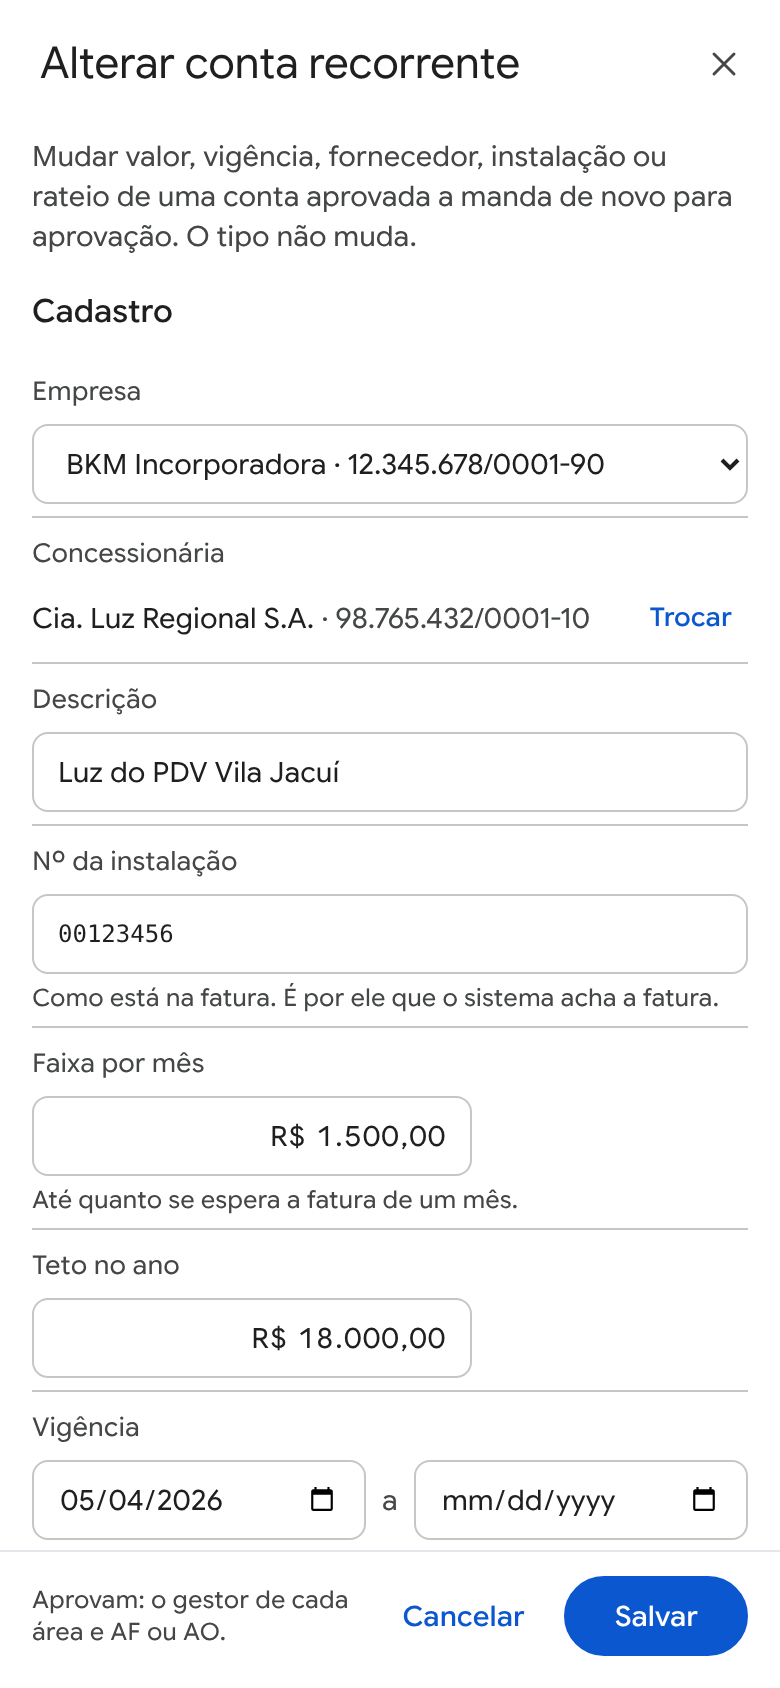
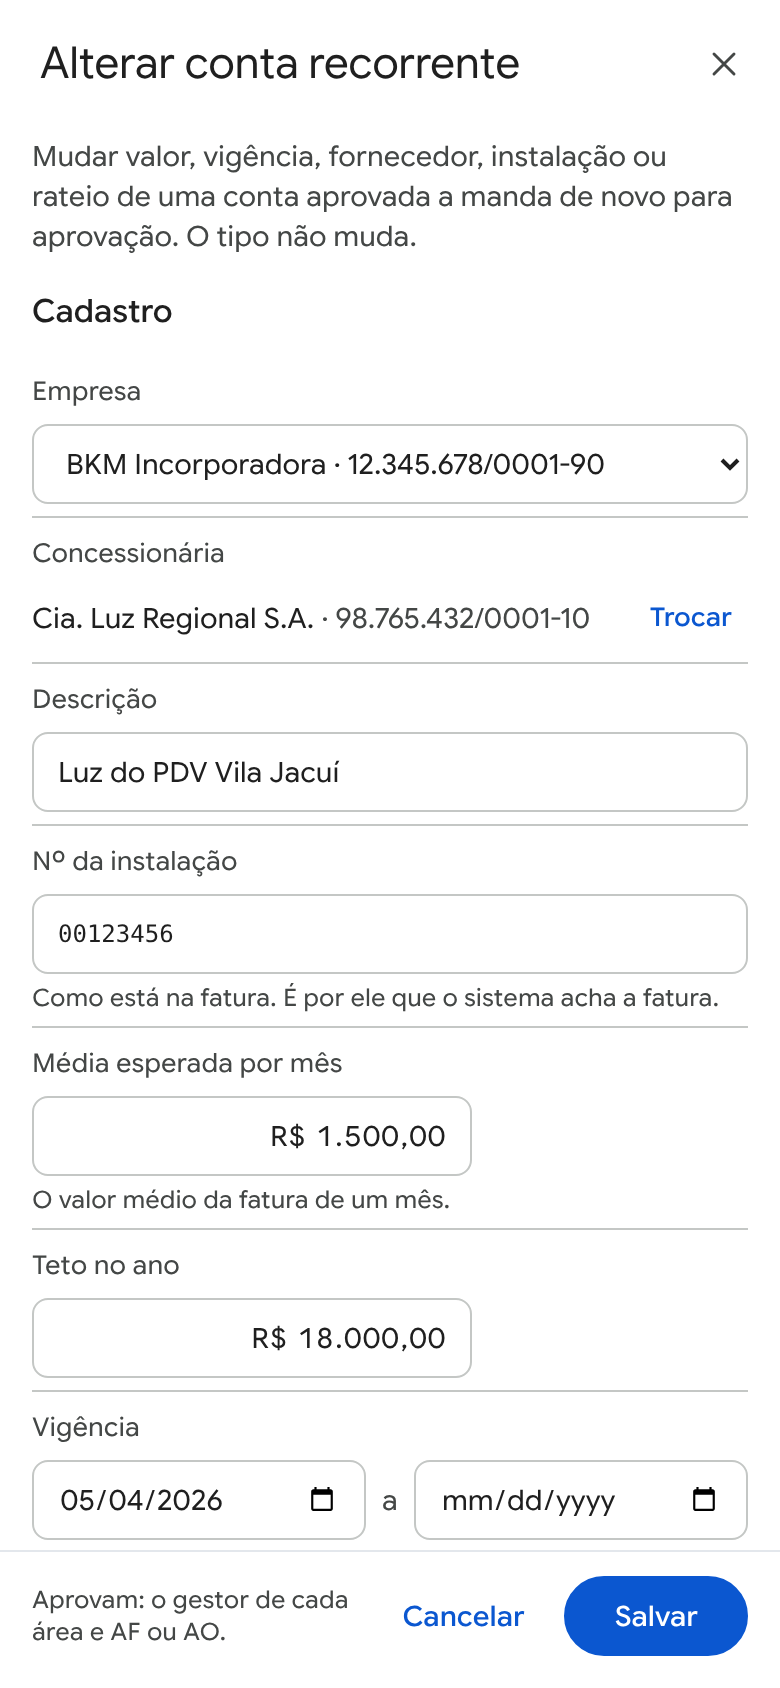
Conta de consumo: média esperada por mês, não faixa máxima
Moises, 20/11/2026: o valor é a média esperada; até 30% acima dela, dentro do teto do ano,
a fatura dispensa o gestor (regra no PR das notas). Só textos, comentários e a mensagem.

Claude-Session: https://claude.ai/code/session_01KV2LwR2SUtD18ECjF8APje

diff --git a/apps/web/src/pages/Contratos.tsx b/apps/web/src/pages/Contratos.tsx
@@ -24,7 +24,7 @@ const sit = (c: Contrato) => !ativo(c) ? <Chip t={c.situacao === 'cancelado' ? '
 const COLS = [30, 17, 19, 9, 12, 13];
 const ROT = [{ t: 'Fornecedor' }, { t: 'Natureza' }, { t: 'Área', x: true }, { t: 'Vence' }, { t: 'Situação' }, { t: 'Valor', r: true }];
 const valor = (c: Contrato) => c.valor_periodo != null ? reais(c.valor_periodo) : c.valor_total != null ? reais(c.valor_total)
-  : c.faixa_mensal != null ? `até ${reais(c.faixa_mensal)}` : '—';
+  : c.faixa_mensal != null ? `média ${reais(c.faixa_mensal)}` : '—';
 const TIPO: Record<Contrato['tipo'], string> = { contrato: 'Contrato de serviço', assinatura: 'Assinatura', consumo: 'Conta de consumo' };
 
 export function Contratos() {
@@ -74,7 +74,7 @@ export function Contratos() {
               <Colunas cols={COLS} rot={ROT} />
               <Grupo nome="Contratos de serviço" cor={COR.azul} linhas={ctr.map(linha)} total={soma(ctr) ? `${reais0(soma(ctr))} por mês` : undefined} sel={pg.id} abrir={pg.abrir} cols={COLS} />
               <Grupo nome="Assinaturas" cor={COR.verde} linhas={ass.map(linha)} total={soma(ass) ? `${reais0(soma(ass))} por mês` : undefined} sel={pg.id} abrir={pg.abrir} cols={COLS} />
-              <Grupo nome="Contas de consumo" cor={COR.roxo} linhas={cons.map(linha)} total={somaF(cons) ? `até ${reais0(somaF(cons))} por mês` : undefined} sel={pg.id} abrir={pg.abrir} cols={COLS} />
+              <Grupo nome="Contas de consumo" cor={COR.roxo} linhas={cons.map(linha)} total={somaF(cons) ? `média ${reais0(somaF(cons))} por mês` : undefined} sel={pg.id} abrir={pg.abrir} cols={COLS} />
             </>}
       </div>
       {pg.id && (
@@ -88,6 +88,7 @@ export function Contratos() {
               ['Descrição', sel.descricao],
               ['Número', sel.numero],
               ['Nº da instalação', sel.instalacao],
+              ['Média esperada por mês', sel.faixa_mensal != null ? reais(sel.faixa_mensal) : null],
               ['Teto no ano', sel.teto_anual != null ? reais(sel.teto_anual) : null],
               ['Vigência', `${data(sel.inicio)}${sel.fim ? ` a ${data(sel.fim)}` : ', sem prazo'}`],
               ['Vencimento', sel.dia_vencimento ? `dia ${sel.dia_vencimento}` : null],

diff --git a/apps/web/src/pages/NovaConta.tsx b/apps/web/src/pages/NovaConta.tsx
@@ -66,7 +66,7 @@ export function ContaRecorrente({ id, fechar, salvo }: { id?: string; fechar: ()
   if (fim && inicio && fim < inicio) falta.push('o fim depois do início');
   if (consumo) {
     if (!instalacao.trim()) falta.push('o número da instalação');
-    if (!faixa || faixa <= 0) falta.push('a faixa por mês');
+    if (!faixa || faixa <= 0) falta.push('a média esperada por mês');
     if (!teto || teto <= 0) falta.push('o teto no ano');
   } else if (!valor || valor <= 0) falta.push(tipo === 'contrato' ? 'o valor do contrato' : 'o valor');
   if ((consumo || dia) && !(Number.isInteger(nDia) && nDia >= 1 && nDia <= 31)) falta.push('o dia do vencimento (1 a 31)');
@@ -130,7 +130,7 @@ export function ContaRecorrente({ id, fechar, salvo }: { id?: string; fechar: ()
                 <input className={`lt-in mono ${erro(!instalacao.trim())}`} value={instalacao} onChange={e => setInstalacao(e.target.value)} /></Campo>
             : <Campo r="Número do contrato"><input className="lt-in" placeholder="Opcional" value={numero} onChange={e => setNumero(e.target.value)} /></Campo>}
           {consumo ? <>
-            <Campo r="Faixa por mês" msg="Até quanto se espera a fatura de um mês.">
+            <Campo r="Média esperada por mês" msg="O valor médio da fatura de um mês.">
               <input className={`lt-in num lt-valor ${erro(!faixa)}`} inputMode="decimal" placeholder="R$ 0,00" value={faixaTxt} onChange={e => setFaixaTxt(e.target.value)} onBlur={reaisBlur(faixa, setFaixaTxt)} /></Campo>
             <Campo r="Teto no ano">
               <input className={`lt-in num lt-valor ${erro(!teto)}`} inputMode="decimal" placeholder="R$ 0,00" value={tetoTxt} onChange={e => setTetoTxt(e.target.value)} onBlur={reaisBlur(teto, setTetoTxt)} /></Campo>

diff --git a/docs/tecnico/03-banco-de-dados.md b/docs/tecnico/03-banco-de-dados.md
@@ -174,7 +174,7 @@ O front (`apps/web`) só fala com o esquema `api` (migration `20261118000500_api
 - Lançar título [Construído, 19/nov/2026; migration `20261119000200_api_lancar_titulo.sql`]: `api.lancamento_opcoes()` (empresas com os núcleos ativos e os centros ligados, centros com os últimos níveis das divisões, etiquetas ativas; nulo para quem não grava), `api.naturezas_lancaveis(núcleo, centro, divisão)` (as naturezas do último nível liberadas no nível e em que a pessoa lança, por `erp.lanco`), `api.fornecedores(busca)` (até 30, por nome, fantasia ou documento), `api.previsoes_para_nota(empresa, fornecedor, linhas)` (as previsões abertas com saldo que casam com uma linha do rateio, com o PRV do Sienge e se estão aprovadas) e `api.lancar_titulo(corpo)`, que numa transação grava a nota, o rateio, chama `erp.lancar_documento` (com as previsões marcadas) e grava a forma de pagamento de cada parcela e as etiquetas. Tudo invoker: as mesmas políticas e gatilhos de quem grava direto no `erp`. Fora desta versão: retenção, caução, adiantamento sem nota, rascunho e descrição do título.
 - Anexos e identificação da nota [Construído, 19/nov/2026; migration `20261119000400_erp_anexos.sql`]: `erp.anexos` guarda o registro do arquivo (nome, tipo PDF, XML, JPEG ou PNG, tamanho até 20 MB, sha256, a leitura em jsonb e a nota a que se ligou); o arquivo fica no bucket do serviço de leitura (Cloud Run, projeto `bkm-erp`), com o nome igual ao id da linha, nunca no Storage do Supabase. `api.registrar_anexo(nome, tipo, tamanho, sha256)` devolve o id e as notas visíveis com o mesmo arquivo; `api.gravar_leitura(anexo, leitura)`; `api.meus_anexos_soltos()`; `api.anexo(id)` (o serviço pergunta antes de entregar o arquivo); `api.identificar_nota(corpo)` acha empresa (CNPJ do tomador), fornecedor (do emitente), nota repetida (mesmo emitente e número, sem os zeros à esquerda), candidatos (previsões abertas e contratos ativos, com pontos de 0 a 10 por fornecedor, valor e data, `erp.pontos_candidato`, só com 4 ou mais, os 10 melhores, e o rateio de cada um) e a última forma de pagamento usada com o fornecedor (a chave PIX; do boleto, só a forma). `api.lancar_titulo` recebe `anexos` e liga cada um à nota (`erp._ligar_anexos`); `api.titulo_rastro` lista os anexos da nota do título. Tudo invoker.
 - Tela Para aprovar [Construído, 19/nov/2026; migration `20261119000500_api_aprovar.sql`]: `api.aprovacoes()` junta numa lista o que espera aprovação e a pessoa vê (título em aprovação e previsão lançada à mão, uma linha por alçada pendente, centro ou divisão, com a parte do rateio; contrato e assinatura ativos ainda não decididos na versão atual, uma linha cada), com `esperando` (as vagas que faltam, em palavras, `erp.rotulo_vaga`), `vez` e `motivo`. A vez não é recalculada: `erp._simular_decisao` chama a própria `erp.decidir_titulo`, `decidir_previsao` ou `decidir_compromisso` dentro de uma subtransação que sempre desfaz (erro `P0B01`); passou, é a vez; falhou, o motivo é a mensagem da recusa. Nada da simulação fica gravado. `api.decidir(tipo, id, aprovar|recusar|revisao, justificativa, centro, divisão)` chama a RPC de sempre. Simula só as 50 mais antigas (cada simulação é uma subtransação com xid; acima de 64 o cache de subtransações estoura); as demais aparecem sem a vez, com o aviso. Em transação só de leitura (GET do PostgREST) dá erro claro: a tela chama por POST. Tudo invoker; quem só lê recebe a lista vazia.
-- Contas recorrentes pela tela [Construído, 20/nov/2026; migration `20261120000100_erp_conta_recorrente.sql`]: `compromissos` ganha o tipo `consumo` (luz, água, telefone), com `instalacao` (número da instalação, como na fatura), `faixa_mensal` (valor esperado no mês) e `teto_anual`, obrigatórios no consumo e nulos nos outros tipos (constraints `compromissos_consumo` e `compromissos_so_consumo`); a mesma instalação não se repete no mesmo fornecedor e empresa entre as ativas (índice `compromissos_instalacao`, comparando só letras e dígitos). O consumo pede aprovação como o contrato e a assinatura (vagas AREA e FIN), e mudar instalação, faixa ou teto abre versão nova. `api.contratos()` passa a trazer o consumo, a instalação, a faixa, o teto e `posso_alterar`; `api.conta(id)` devolve o cadastro com o rateio no último nível da divisão; `api.salvar_conta(p)` cria (sem `id`) ou altera (com `id`; o tipo não muda; só conta ativa que a pessoa lança), refaz o rateio só se ele mudou e confere 100%. `api.aprovacoes` e `api.identificar_nota` passam a considerar o consumo (valor = faixa). Tudo invoker, pelo RLS de quem chama.
+- Contas recorrentes pela tela [Construído, 20/nov/2026; migration `20261120000100_erp_conta_recorrente.sql`]: `compromissos` ganha o tipo `consumo` (luz, água, telefone), com `instalacao` (número da instalação, como na fatura), `faixa_mensal` (o valor MÉDIO esperado da fatura no mês, não um máximo; Moises, 20/nov/2026; o nome da coluna ficou) e `teto_anual`, obrigatórios no consumo e nulos nos outros tipos (constraints `compromissos_consumo` e `compromissos_so_consumo`); a mesma instalação não se repete no mesmo fornecedor e empresa entre as ativas (índice `compromissos_instalacao`, comparando só letras e dígitos). O consumo pede aprovação como o contrato e a assinatura (vagas AREA e FIN), e mudar instalação, faixa ou teto abre versão nova. `api.contratos()` passa a trazer o consumo, a instalação, a faixa, o teto e `posso_alterar`; `api.conta(id)` devolve o cadastro com o rateio no último nível da divisão; `api.salvar_conta(p)` cria (sem `id`) ou altera (com `id`; o tipo não muda; só conta ativa que a pessoa lança), refaz o rateio só se ele mudou e confere 100%. `api.aprovacoes` e `api.identificar_nota` passam a considerar o consumo (valor = faixa). Tudo invoker, pelo RLS de quem chama.
   Contrato com nota, título ou previsão ligada não troca de fornecedor, e o valor total não fica abaixo do já lançado (gatilho `t_compromisso_vinculado`, `erp.compromisso_vinculos`); sem nada ligado, os dois mudam.
 - A aprovação da previsão e do contrato (`erp.previsao_aprovada`, `erp.compromisso_aprovado`) é `security definer` sem `execute` para a API (S-126). As telas usam `erp.previsao_aprovada_vista` e `erp.contrato_aprovado_visto`, que conferem `vejo_previsao`/`vejo_compromisso` antes e devolvem nulo para o que a pessoa não vê.
 - PJ: a natureza restrita fica de fora pelo próprio RLS; o teste confere que o analista não vê o título PJ nem na lista nem na gaveta, e que o master vê.

diff --git a/docs/tecnico/05-contas-a-pagar.md b/docs/tecnico/05-contas-a-pagar.md
@@ -53,7 +53,7 @@ Decisões do Moises (8, 14 e 17/nov/2026). Só a previsão aprovada vai ao Sieng
 
 **Tela Para aprovar [Construído, 19/nov/2026]** (`apps/web/src/pages/Aprovar.tsx`, `/aprovar`, Financeiro › Para aprovar): títulos, previsões e contratos que esperam aprovação, em Vencidos, Vencem esta semana, Depois e Esperando outra pessoa (fechado), com os contadores Na minha vez, Vencem em 7 dias, Vencidos e Esperando outra pessoa. A gaveta mostra o valor da parte da pessoa (no rateio, "parte de Marketing em R$ 42.000,00"), o rastro do título, quem lançou e o que falta aprovar; na vez, Recusar (pede justificativa), Pedir ajuste (só título; volta para quem lançou) e Aprovar ("Aprovar a parte de …" no rateio). Fora da vez, a mensagem que a decisão daria (quem lançou não aprova, a fase é do gestor, já aprovou). A regra de quem decide fica só nas funções de decisão do banco; a tela pergunta a elas (ver [03](03-banco-de-dados.md)). Aprovar vários de uma vez (Moises, 20/nov/2026): caixa em cada item na vez da pessoa e "Selecionar todos" (o que está à vista, com filtro e busca); "Aprovar N" chama `api.decidir` item a item, cada um pela regra de sempre, e diz quantos passaram e por que os outros não.
 
-**Tela Contas recorrentes [Construído, 20/nov/2026]** (`apps/web/src/pages/Contratos.tsx` e `NovaConta.tsx`, `/contratos`): grupos Contratos de serviço, Assinaturas e Contas de consumo (a de consumo com "até R$ X por mês", a soma das faixas). "Nova conta" (`?novo=1`) escolhe o tipo: Assinatura (valor por período, gera as previsões), Contrato de serviço (valor total) ou Conta de consumo (concessionária, número da instalação, faixa por mês, teto no ano e dia do vencimento, obrigatório); depois empresa, fornecedor, descrição, vigência, vencimento e o rateio, como no Lançar título. Envia para aprovação (gestor de cada área e AF ou AO). Na gaveta, "Alterar" (`?alterar=1`) só para quem lança na conta ativa; o tipo não muda e mudar valor, vigência, fornecedor, instalação ou rateio pede aprovação de novo. A caução do contrato ainda não tem campo (fica 0 na nova e mantida na alterada). [A fazer, no PR das notas] A nota mensal (Moises, 19/nov/2026): contrato de serviço e assinatura passam todo mês pelo gestor do centro (confere que o serviço foi prestado) e depois AF ou AD; a fatura de consumo dentro da faixa vai direto a AF, AO ou AD, e fora dela passa antes pelo gestor.
+**Tela Contas recorrentes [Construído, 20/nov/2026]** (`apps/web/src/pages/Contratos.tsx` e `NovaConta.tsx`, `/contratos`): grupos Contratos de serviço, Assinaturas e Contas de consumo (a de consumo com "média R$ X por mês", a soma das médias esperadas). "Nova conta" (`?novo=1`) escolhe o tipo: Assinatura (valor por período, gera as previsões), Contrato de serviço (valor total) ou Conta de consumo (concessionária, número da instalação, média esperada por mês, teto no ano e dia do vencimento, obrigatório); depois empresa, fornecedor, descrição, vigência, vencimento e o rateio, como no Lançar título. Envia para aprovação (gestor de cada área e AF ou AO). Na gaveta, "Alterar" (`?alterar=1`) só para quem lança na conta ativa; o tipo não muda e mudar valor, vigência, fornecedor, instalação ou rateio pede aprovação de novo. A caução do contrato ainda não tem campo (fica 0 na nova e mantida na alterada). [A fazer, no PR das notas] A nota mensal (Moises, 19/nov/2026): contrato de serviço e assinatura passam todo mês pelo gestor do centro (confere que o serviço foi prestado) e depois AF ou AD; a fatura de consumo vai direto a AF, AO ou AD quando fica até 30% acima da média esperada do mês (Moises, 20/nov/2026: a coluna `faixa_mensal` é a média, não o máximo) e o ano somado com ela fica dentro do teto; acima disso, passa antes pelo gestor. [Interpretação a confirmar no PR das notas: os 30% como configuração do administrador, começando em 30.]
 ## 5.3 "Lançar nota fiscal" [Desenhado; primeira tela construída em 19/nov/2026]
 
 **[Construído, 19/nov/2026] Tela Lançar título** (`apps/web/src/pages/Lancar.tsx`, `api.lancar_titulo`): empresa, fornecedor buscado no cadastro, tipo, número, série, emissão, competência e valor; rateio em uma ou mais linhas (núcleo, centro, último nível da divisão e as naturezas que o perfil libera ali); as previsões abertas que casam com o rateio, com o número PRV do Sienge, para marcar quais a nota consome; parcelas iguais com a forma de pagamento de cada uma (PIX, com a chave do documento do fornecedor sugerida, ou boleto); etiquetas. Ainda sem leitura do PDF ou do XML, sem retenção e sem caução. O contrato preso à nota precisa ser da mesma empresa e do mesmo fornecedor, estar ativo e ser visível para quem lança (gatilho `t_contrato_confere`, também em `titulos`).
